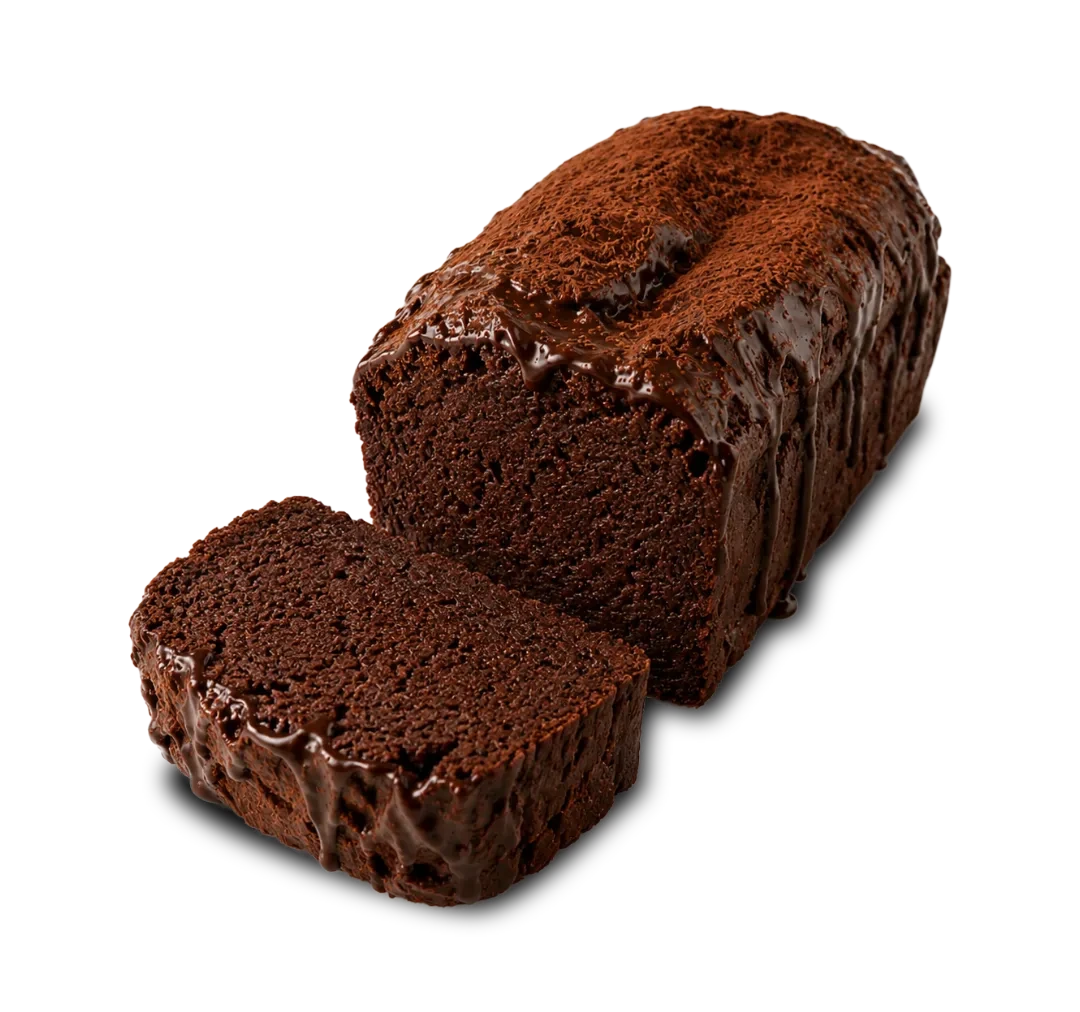
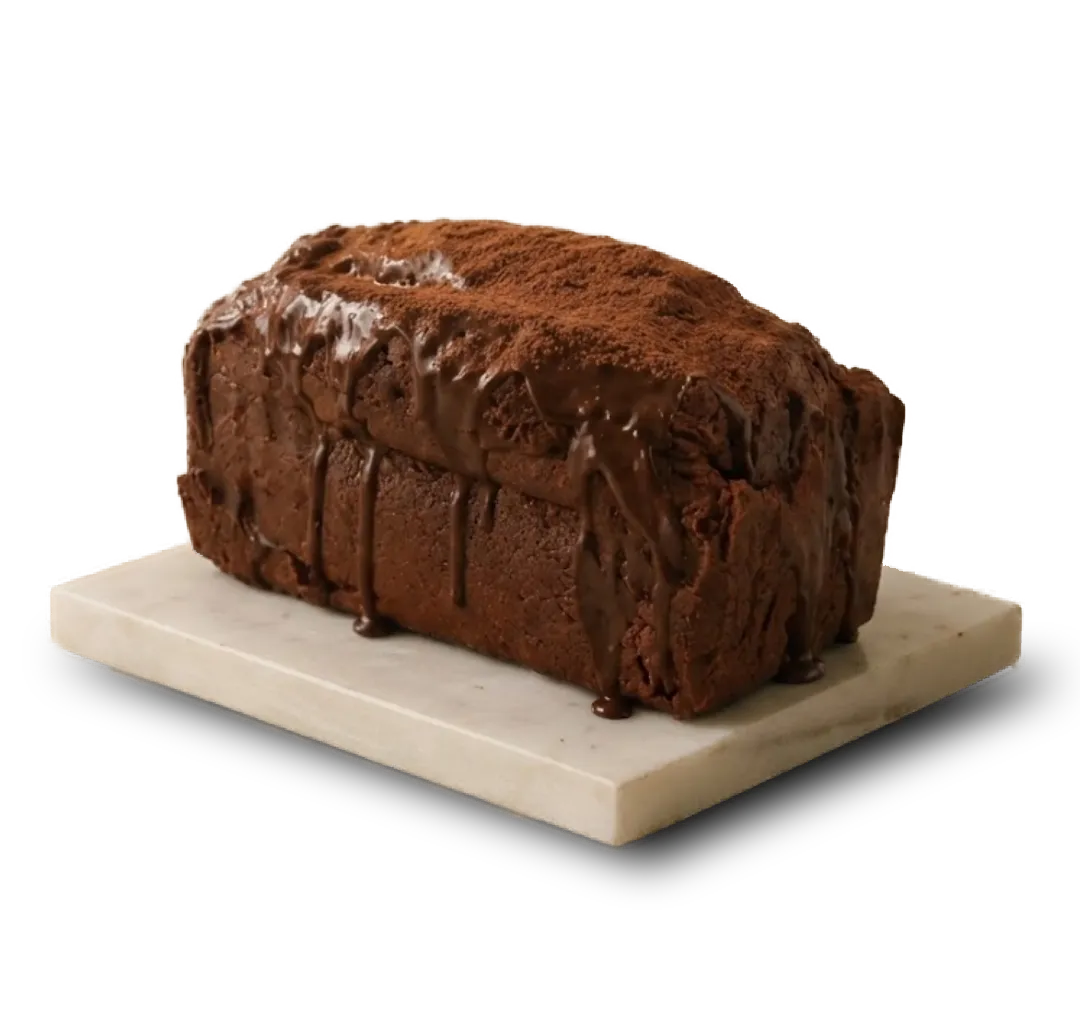
feat(cakes): refresh product photography

diff --git a/src/CakeDetailPage.tsx b/src/CakeDetailPage.tsx
@@ -39,34 +39,50 @@ import type { ProductId } from './lib/types'
 
 const detailImages: Record<CakeDetailImageKey, string> = {
   'pound-side': '/products/chocolate-pound-cake-sydney.webp',
+  'pound-quick-view': '/products/details/chocolate-pound-cake-quick-view.webp',
+  'pound-previous': '/products/details/chocolate-pound-cake-previous.webp',
   'pound-hero': poundHeroImg,
   'cupcake-side': '/products/chocolate-cupcakes-sydney.webp',
   'cupcake-hero': cupcakeHeroImg,
   'pave-side': '/products/pave-chocolate-cake-sydney.webp',
+  'pave-quick-view': '/products/details/pave-chocolate-cake-quick-view.webp',
+  'pave-previous': '/products/details/pave-chocolate-cake-previous.webp',
   'pave-hero': paveHeroImg,
   'pave-card': paveCardImg,
   'pave-slice': paveSliceImg,
   'pave-slices': paveSlicesImg,
   'cheesecake-hero': cheesecakeHeroImg,
   'cheesecake-side': '/products/chocolatiers-basque-cheesecake-sydney.webp',
+  'cheesecake-quick-view': '/products/details/chocolatiers-basque-cheesecake-quick-view.webp',
+  'cheesecake-previous': '/products/details/chocolatiers-basque-cheesecake-previous.webp',
   'lemon-hero': lemonHeroImg,
   'lemon-side': '/products/lemon-cake-sydney.webp',
+  'lemon-quick-view': '/products/details/lemon-cake-quick-view.webp',
+  'lemon-previous': '/products/details/lemon-cake-previous.webp',
 }
 
 const detailImageDimensions: Record<CakeDetailImageKey, { width: number; height: number }> = {
   'pound-side': { width: 1080, height: 1012 },
+  'pound-quick-view': { width: 1080, height: 1012 },
+  'pound-previous': { width: 1080, height: 1012 },
   'pound-hero': { width: 1080, height: 1012 },
   'cupcake-side': { width: 1080, height: 1012 },
   'cupcake-hero': { width: 1448, height: 1086 },
   'pave-side': { width: 1080, height: 1012 },
+  'pave-quick-view': { width: 1080, height: 1012 },
+  'pave-previous': { width: 1080, height: 1012 },
   'pave-hero': { width: 1080, height: 1012 },
   'pave-card': { width: 560, height: 520 },
   'pave-slice': { width: 1122, height: 1402 },
   'pave-slices': { width: 1000, height: 1000 },
   'cheesecake-hero': { width: 1080, height: 1012 },
   'cheesecake-side': { width: 1080, height: 1012 },
+  'cheesecake-quick-view': { width: 1080, height: 1012 },
+  'cheesecake-previous': { width: 1080, height: 1012 },
   'lemon-hero': { width: 1080, height: 1012 },
   'lemon-side': { width: 1080, height: 1012 },
+  'lemon-quick-view': { width: 1080, height: 1012 },
+  'lemon-previous': { width: 1080, height: 1012 },
 }
 
 type CakeDetailPageProps = {

diff --git a/src/pages/HomePage.tsx b/src/pages/HomePage.tsx
@@ -4,7 +4,6 @@ import heroCake2Img from '../assets/hero-cake-2.webp'
 import heroCake3Img from '../assets/hero-cake-3.webp'
 import basqueCheesecakeHeroImg from '../assets/basquecheesecake.webp'
 import glutenFreeStampImg from '../assets/glutenfree.webp'
-import freshLemonCupcakesHeroImg from '../assets/lemoncake.webp'
 import { ProductQuickViewDialog } from '../ProductQuickViewDialog'
 import PublicReviewsSection from '../PublicReviewsSection'
 import { PickupLocationCard, SiteHeader, VanillaFreshCreamCakeSilhouette } from '../components/SiteChrome'
@@ -25,6 +24,14 @@ const catalogImages: Record<CakeCatalogImageKey, string> = {
   'pave-cake': '/products/pave-chocolate-cake-sydney.webp',
   'basque-cheesecake': '/products/chocolatiers-basque-cheesecake-sydney.webp',
   'lemon-cake': '/products/lemon-cake-sydney.webp',
+  'vanilla-fresh-cream-cake': '',
+}
+
+const quickViewImages: Record<CakeCatalogImageKey, string> = {
+  'pound-cake': '/products/details/chocolate-pound-cake-quick-view.webp',
+  'pave-cake': '/products/details/pave-chocolate-cake-quick-view.webp',
+  'basque-cheesecake': '/products/details/chocolatiers-basque-cheesecake-quick-view.webp',
+  'lemon-cake': '/products/details/lemon-cake-quick-view.webp',
   'vanilla-fresh-cream-cake': '',
 }
 
@@ -55,7 +62,7 @@ export function HomePage({
     { image: basqueCheesecakeHeroImg, label: "Chocolatier's Basque", tagKey: 'mini', className: 'hero-cake-one' },
     { image: heroCake2Img, label: 'Pave Chocolate Cake', tagKey: 'first', className: 'hero-cake-two' },
     { image: heroCake3Img, label: 'Chocolate Pound Cake', tagKey: 'pound', className: 'hero-cake-three' },
-    { image: freshLemonCupcakesHeroImg, label: 'Lemon Cake', tagKey: 'lemon', className: 'hero-cake-four' },
+    { image: catalogImages['lemon-cake'], label: 'Lemon Cake', tagKey: 'lemon', className: 'hero-cake-four' },
   ]
 
   useEffect(() => {
@@ -482,7 +489,7 @@ export function HomePage({
       {quickViewCard && (
         <ProductQuickViewDialog
           card={quickViewCard}
-          imageUrl={catalogImages[quickViewCard.imageKey]}
+          imageUrl={quickViewImages[quickViewCard.imageKey]}
           language={language}
           opener={quickViewOpener}
           onClose={closeQuickView}

diff --git a/src/lib/cake-detail.ts b/src/lib/cake-detail.ts
@@ -31,18 +31,26 @@ import type {
 
 export type CakeDetailImageKey =
   | 'pound-side'
+  | 'pound-quick-view'
+  | 'pound-previous'
   | 'pound-hero'
   | 'cupcake-side'
   | 'cupcake-hero'
   | 'pave-side'
+  | 'pave-quick-view'
+  | 'pave-previous'
   | 'pave-hero'
   | 'pave-card'
   | 'pave-slice'
   | 'pave-slices'
   | 'cheesecake-hero'
   | 'cheesecake-side'
+  | 'cheesecake-quick-view'
+  | 'cheesecake-previous'
   | 'lemon-hero'
   | 'lemon-side'
+  | 'lemon-quick-view'
+  | 'lemon-previous'
 
 export type CakeDetailSelection = {
   productId: ProductId
@@ -74,10 +82,10 @@ export type CakeDetailData = {
 }
 
 const DETAIL_GALLERIES: Record<CakeCatalogId, readonly CakeDetailImageKey[]> = {
-  'pound-cupcake': ['pound-side', 'pound-hero', 'cupcake-side', 'cupcake-hero'],
-  pave: ['pave-side', 'pave-hero', 'pave-card', 'pave-slice', 'pave-slices'],
-  cheesecake: ['cheesecake-hero', 'cheesecake-side'],
-  'fresh-lemon-cupcakes': ['lemon-hero', 'lemon-side'],
+  'pound-cupcake': ['pound-side', 'pound-quick-view', 'pound-previous', 'pound-hero', 'cupcake-side', 'cupcake-hero'],
+  pave: ['pave-side', 'pave-quick-view', 'pave-previous', 'pave-hero', 'pave-card', 'pave-slice', 'pave-slices'],
+  cheesecake: ['cheesecake-side', 'cheesecake-quick-view', 'cheesecake-previous', 'cheesecake-hero'],
+  'fresh-lemon-cupcakes': ['lemon-side', 'lemon-quick-view', 'lemon-previous', 'lemon-hero'],
   'vanilla-fresh-cream': [],
 }
 

diff --git a/tests/cake-detail.test.ts b/tests/cake-detail.test.ts
@@ -24,7 +24,11 @@ test('five public cake slugs resolve to one reusable detail data contract', () =
     'lemon-cake',
     'vanilla-fresh-cream-cake',
   ])
-  assert.deepEqual(details.map((detail) => detail?.gallery.length), [4, 5, 2, 2, 0])
+  assert.deepEqual(details.map((detail) => detail?.gallery.length), [6, 7, 4, 4, 0])
+  assert.deepEqual(details[0]?.gallery.slice(0, 4), ['pound-side', 'pound-quick-view', 'pound-previous', 'pound-hero'])
+  assert.deepEqual(details[1]?.gallery.slice(0, 4), ['pave-side', 'pave-quick-view', 'pave-previous', 'pave-hero'])
+  assert.deepEqual(details[2]?.gallery, ['cheesecake-side', 'cheesecake-quick-view', 'cheesecake-previous', 'cheesecake-hero'])
+  assert.deepEqual(details[3]?.gallery, ['lemon-side', 'lemon-quick-view', 'lemon-previous', 'lemon-hero'])
   assert.equal(details[4]?.isPhotoComingSoon, true)
   assert.equal(getCakeDetailBySlug('not-a-cake', 'en'), null)
 })
